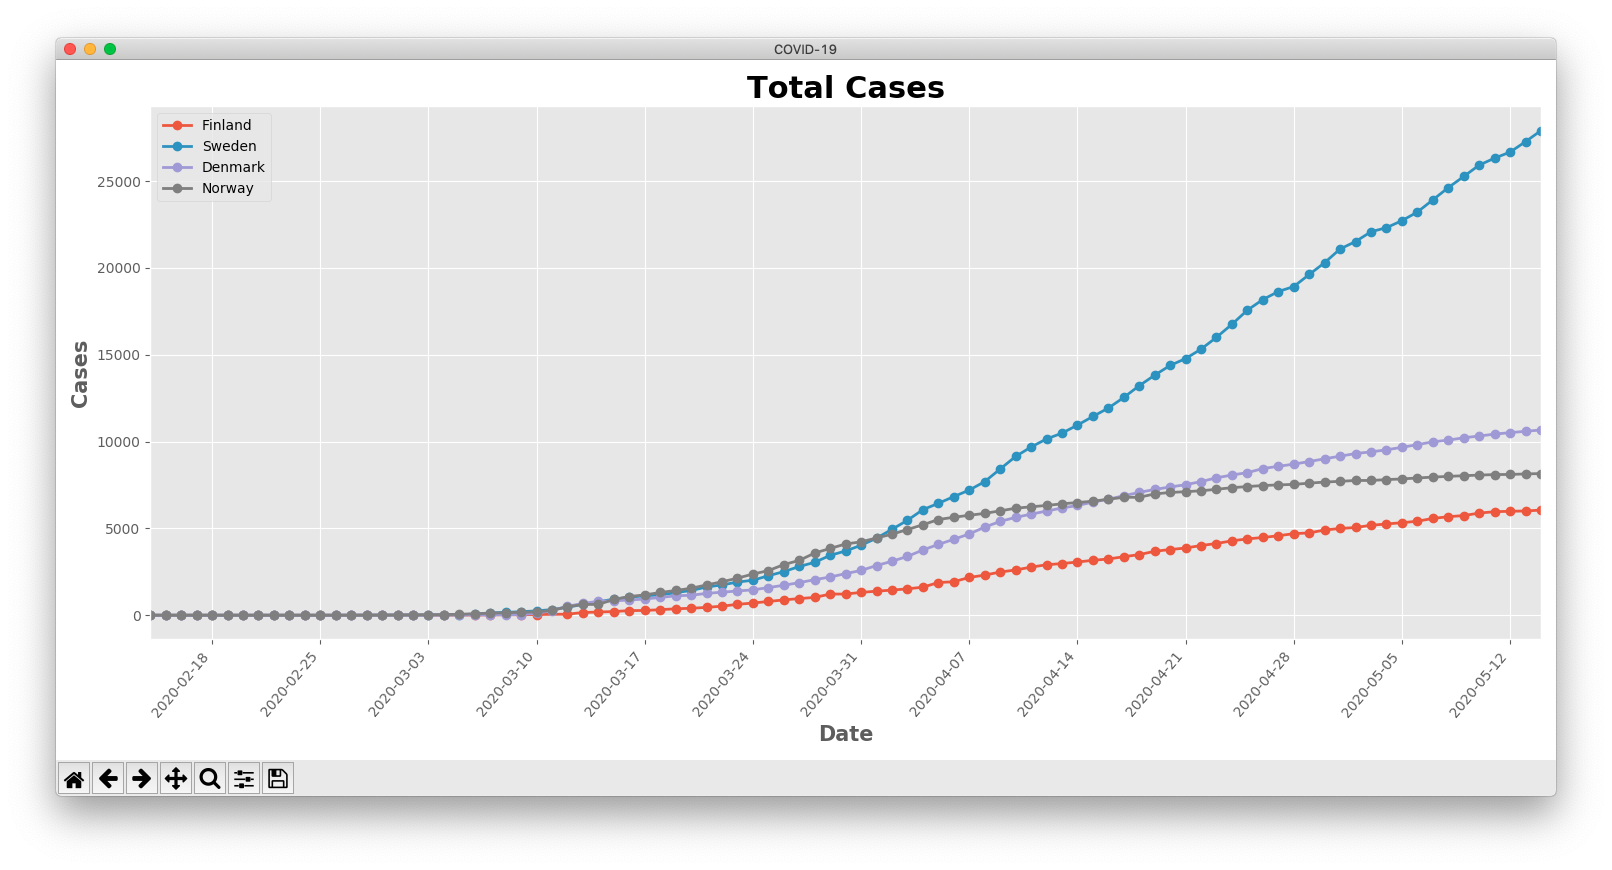
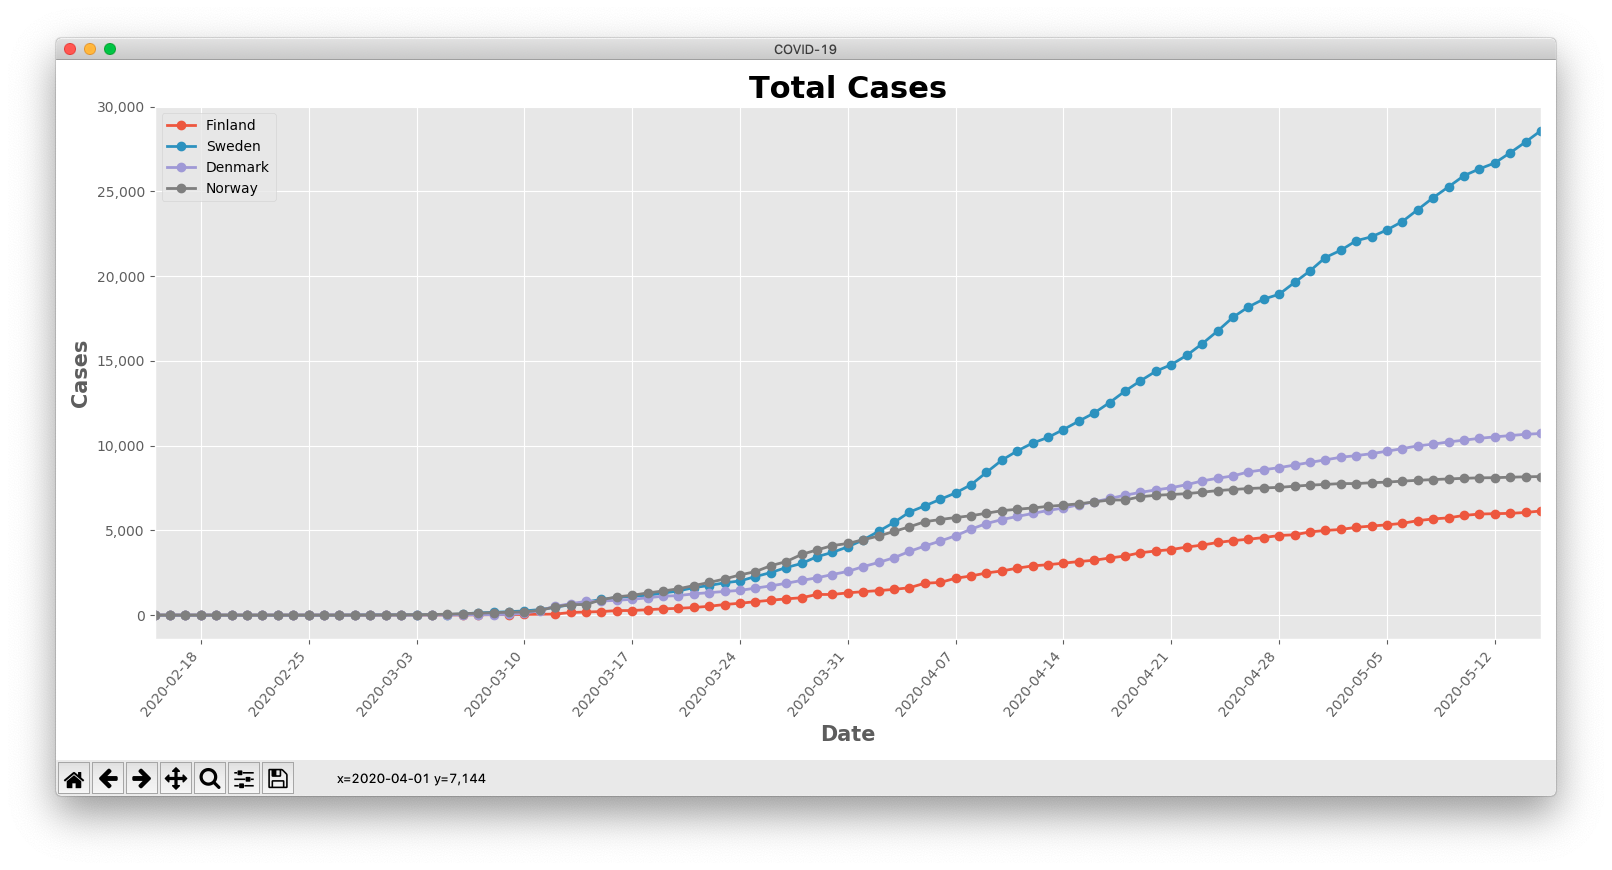
y and x axis thousand separators

diff --git a/Functions/graph_functions.py b/Functions/graph_functions.py
@@ -6,6 +6,7 @@ import numpy as np
 from Classes.classes import Graph
 from Functions.option_functions import choose_chart, choose_country, choose_time_period
 import colorsys
+import matplotlib as mpl
 
 stats = {'1':"total_cases", '2':"total_deaths", '3':"new_cases", '4':"new_deaths"}
 
@@ -17,6 +18,14 @@ def get_N_HexCol(N=20):
         rgb = map(lambda x: int(x * 255), colorsys.hsv_to_rgb(*rgb))
         hex_out.append('#%02x%02x%02x' % tuple(rgb))
     return hex_out
+
+def format_numbers(arr):
+    i = 0
+    for num in arr:
+        if len(num) > 7:
+            arr[i] = (num[:3] + ' M').replace(',', '.')
+        i += 1
+    return arr
 
 def show_most_cases(chart_num, df):
     '''
@@ -31,6 +40,7 @@ def show_most_cases(chart_num, df):
     graph = Graph('COVID-19 ' + stats_name[:-1] + ' rate per country', 'countries', stats_name)
     top20 = df.groupby('location')[[chart]].sum().sort_values([chart])[-21:-1].reset_index()
     values = top20[chart].apply("{:,}".format).to_numpy()
+    values = format_numbers(values)
     top20.plot(kind='barh', color=get_N_HexCol(), width=0.85, y=chart, x='location', ax=graph.ax)
 
     graph.set_info()
@@ -39,6 +49,7 @@ def show_most_cases(chart_num, df):
     graph.ax.legend().set_visible(False)
     plt.yticks(fontweight='bold', color='black')
     plt.xticks(fontsize=10)
+    graph.ax.xaxis.set_major_formatter(mpl.ticker.FuncFormatter(lambda x, p: format(int(x), ',')))
     plt.show()
 
 def compare_countries(dataframe):

diff --git a/Classes/classes.py b/Classes/classes.py
@@ -4,6 +4,7 @@ import numpy as np
 import pandas as pd
 from datetime import datetime, timedelta
 import matplotlib.dates as mdates
+import matplotlib as mpl
 
 title_font = {'fontweight':'bold', 'fontsize':22}
 label_font = {'weight':'bold', 'fontsize': 15}
@@ -25,6 +26,7 @@ class Graph:
     def ajust_graph(self):
         plt.xticks(fontsize=10, rotation=50, ha="right")
         plt.yticks(fontsize=10)
+        self.ax.yaxis.set_major_formatter(mpl.ticker.FuncFormatter(lambda x, p: format(int(x), ',')))
         self.ax.xaxis.set_major_locator(mdates.WeekdayLocator())
         plt.legend(loc=2)
         plt.tight_layout()

diff --git a/main_script.py b/main_script.py
@@ -25,7 +25,7 @@ def main():
     print(f"Updated: {youngest}")
     show_most_cases('3', df)
     show_most_cases('4', df)
-    #compare_countries(df)
+    compare_countries(df)
 
 if __name__ == "__main__":
     main()
